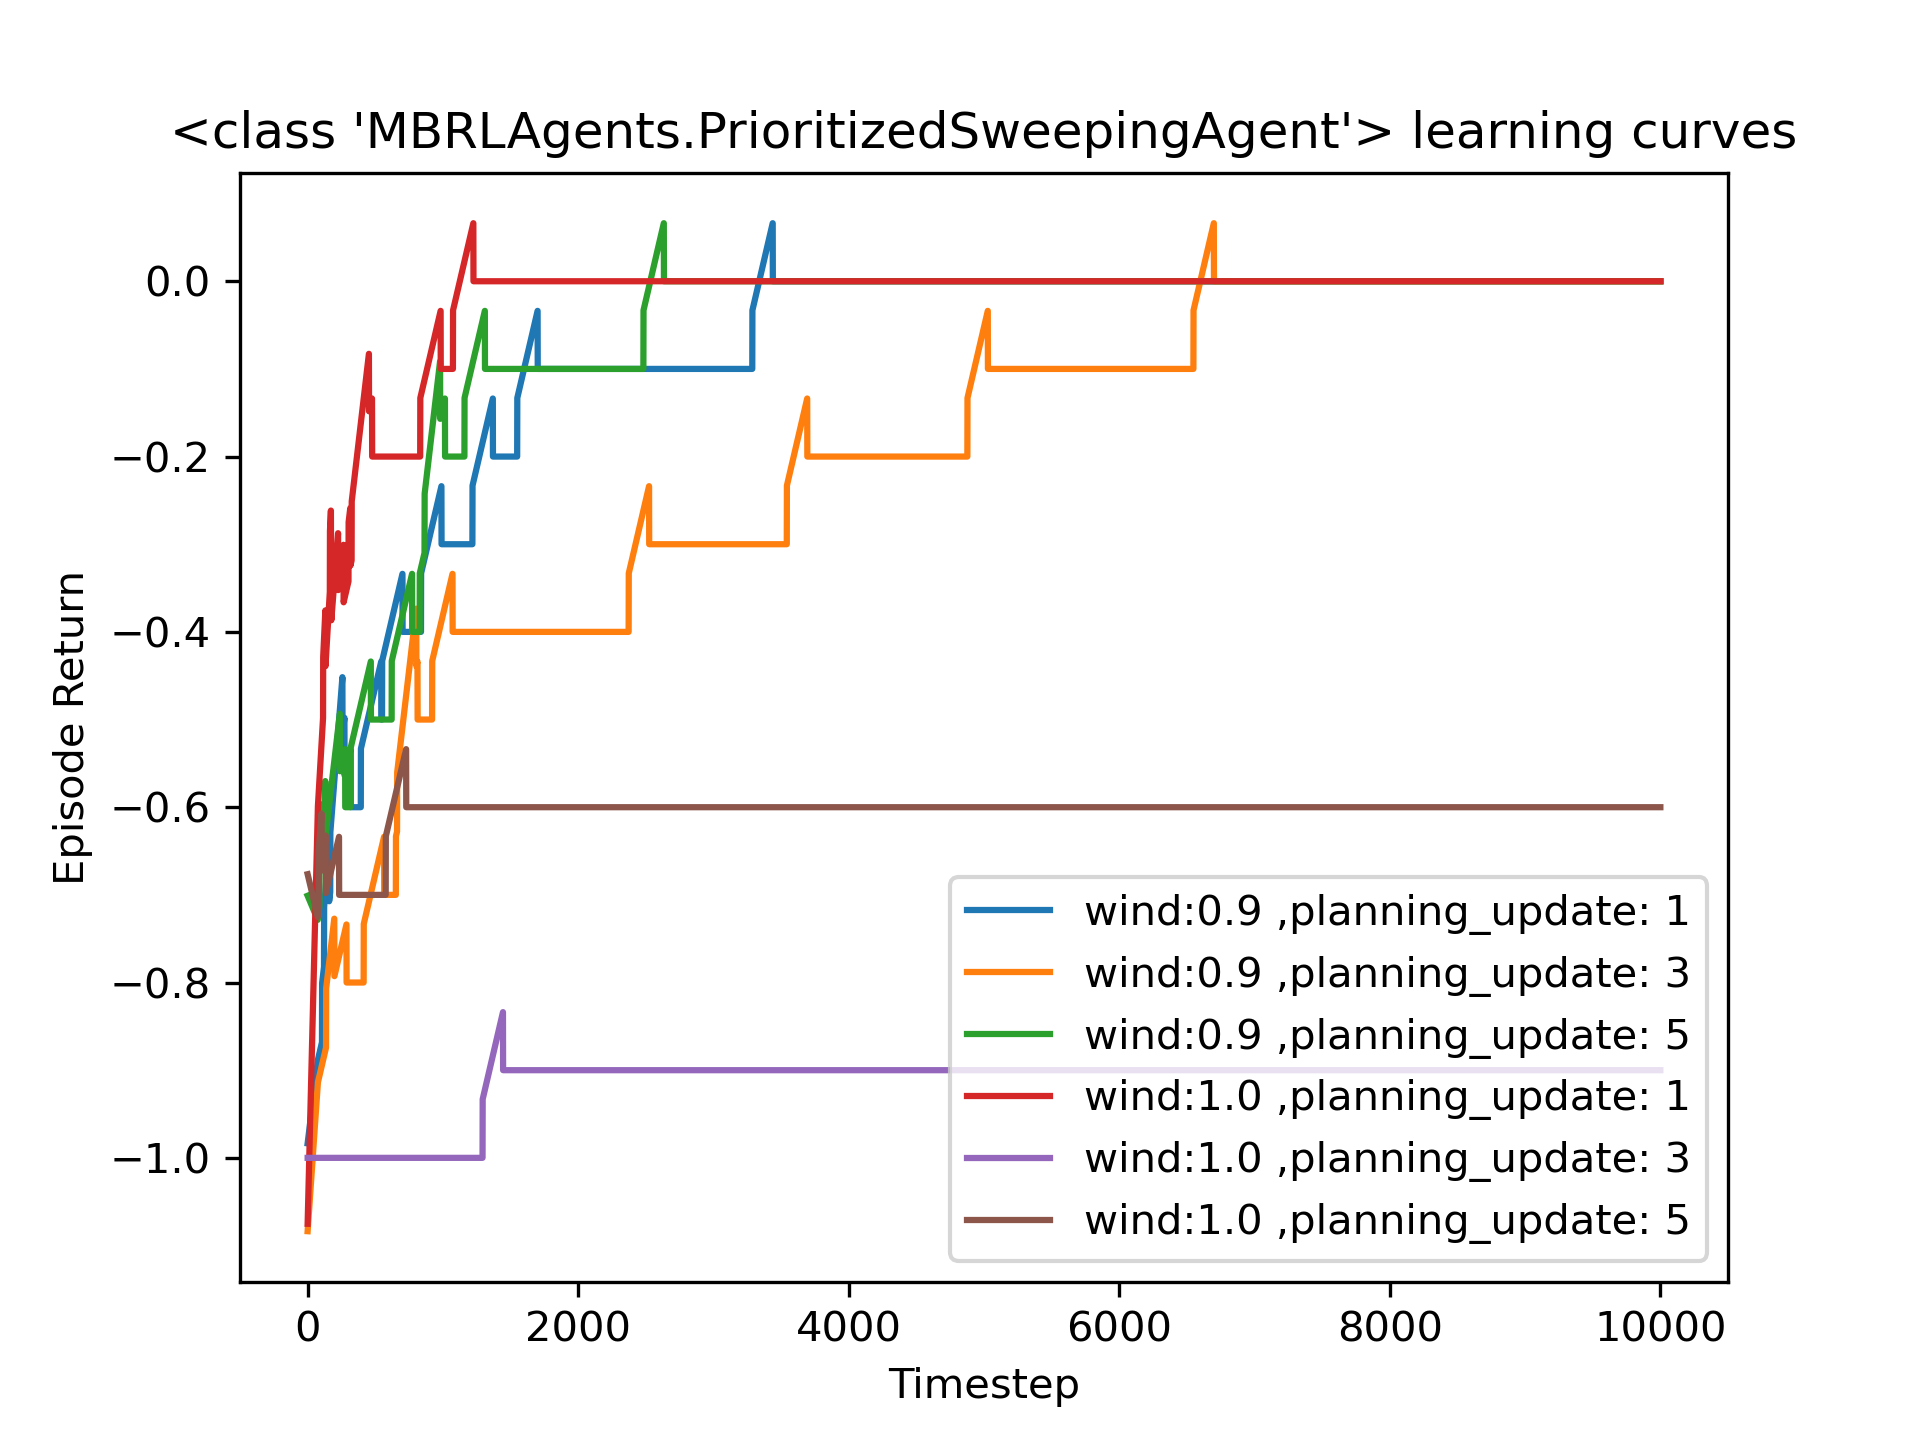
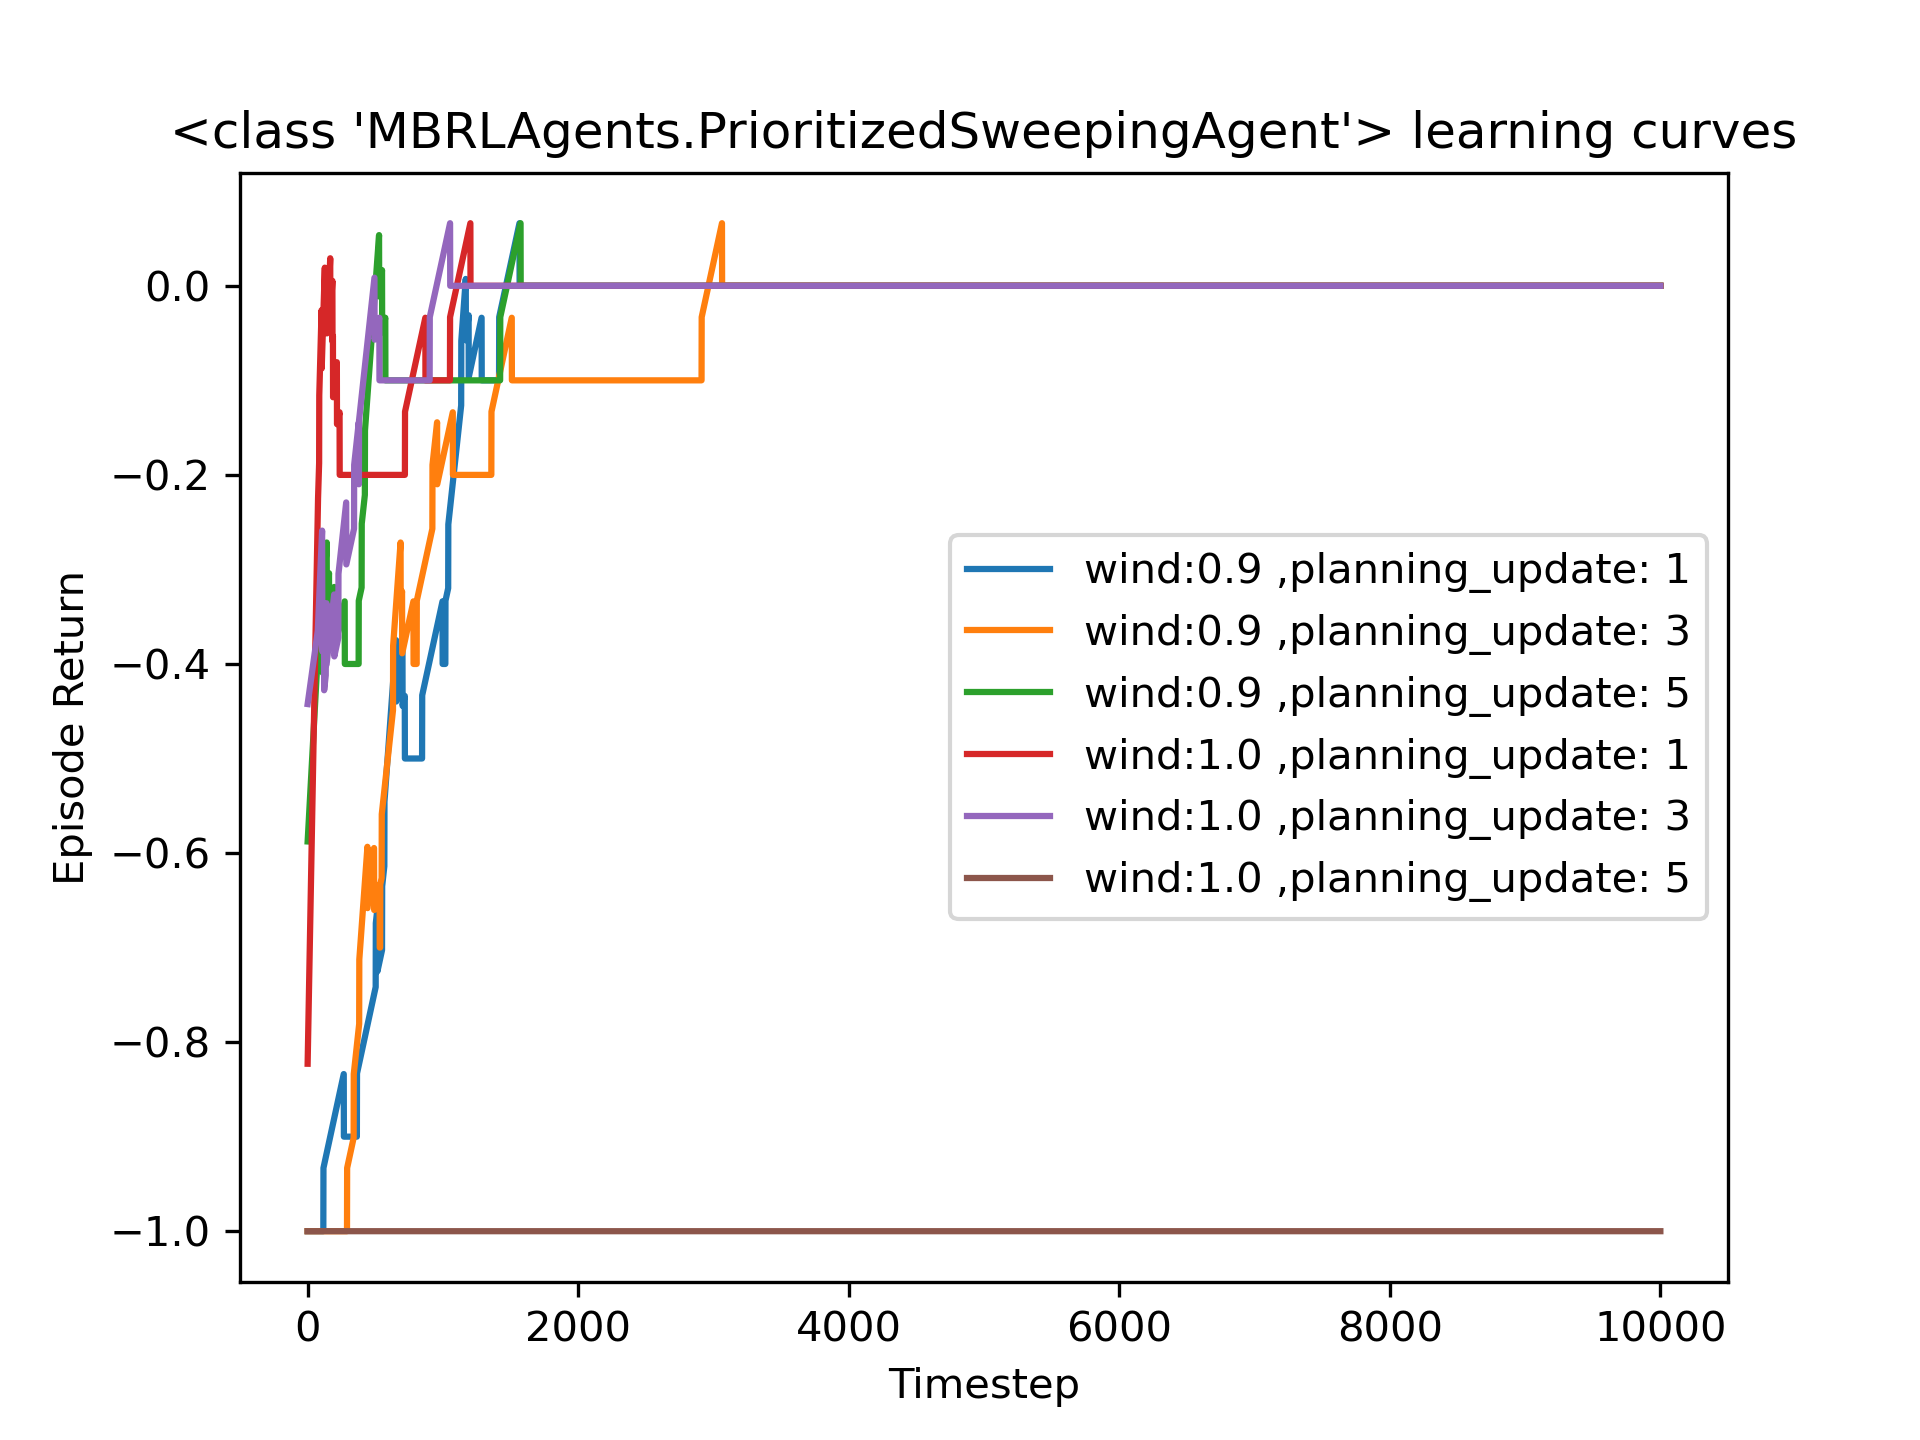
final final commit

diff --git a/MBRLAgents.py b/MBRLAgents.py
@@ -18,13 +18,14 @@ class DynaAgent:
         self.learning_rate = learning_rate
         self.gamma = gamma
         self.Q_sa = np.zeros((n_states,n_actions))
+        #initialize transition counts and reward sums
         self.means_Q_sa = np.zeros((n_states, n_actions))
         self.transition_counts = np.zeros((n_states,n_actions,n_states))
         self.reward_sums = np.zeros((n_states,n_actions, n_states))
-        # TO DO: Initialize count tables, and reward sum tables. 
+        
         
     def select_action(self, s, epsilon):
-        # TO DO: Change this to e-greedy action selection
+        #e-greedy action selection
         if np.random.rand() < epsilon:
             action = np.random.randint(0, self.n_actions)
         else:
@@ -33,23 +34,31 @@ class DynaAgent:
         return action
         
     def update(self,s,a,r,done,s_next,n_planning_updates):
-        # TO DO: Add Dyna update
+        #update transition counts
         self.transition_counts[s,a,s_next] += 1
+        #update reward sums
         self.reward_sums[s,a,s_next] += r
+        #estimate reward
         estimate_r = self.reward_sums[s,a,s_next] / self.transition_counts[s,a,s_next]
+        #update q table
         self.Q_sa[s,a] += self.learning_rate * (r + self.gamma * np.max(self.Q_sa[s_next]) - self.Q_sa[s,a])
         
+        
         for k in range(n_planning_updates):
+            #find random previously observed state and action
             state_found = False
             while not state_found:
                 s = np.random.choice(np.arange(self.n_states))
                 a = np.random.choice(np.arange(self.n_actions))
                 if np.sum(self.transition_counts[s,a]) > 0:
                     state_found = True
-
+                    
+            #estimate transition probability
             estimate_probability = self.transition_counts[s,a] / np.sum(self.transition_counts[s,a])
             
-            s_next = np.random.choice(np.where(self.transition_counts[s,a] > 0)[0], p=estimate_probability)
+            #update q table with planning
+            s_next = np.random.choice(np.where(self.transition_counts[s,a] > 0)[0])
+            estimate_r = self.reward_sums[s,a,s_next] / self.transition_counts[s,a,s_next]
             self.Q_sa[s,a] += self.learning_rate * (estimate_r + self.gamma * np.max(self.Q_sa[s_next]) - self.Q_sa[s,a])
 
             
@@ -81,13 +90,13 @@ class PrioritizedSweepingAgent:
         self.queue = PriorityQueue()
         
         self.Q_sa = np.zeros((n_states,n_actions))
-        # TO DO: Initialize count tables, reward sum tables, priority queue
+        #initialize transition counts and reward sums
         self.means_Q_sa = np.zeros((n_states, n_actions))
         self.transition_counts = np.zeros((n_states,n_actions,n_states))
         self.reward_sums = np.zeros((n_states,n_actions, n_states))
         
     def select_action(self, s, epsilon):
-        # TO DO: Change this to e-greedy action selection
+        #e-greedy action selection
         
         if np.random.rand() < epsilon:
             action = np.random.randint(0, self.n_actions)
@@ -106,26 +115,40 @@ class PrioritizedSweepingAgent:
         # self.queue.put((-p,(s,a))) 
         # Retrieve the top (s,a) from the queue
         # _,(s,a) = self.queue.get() # get the top (s,a) for the queue
+        
+        #update transition counts
         self.transition_counts[s,a,s_next] += 1
+        #update reward sums
         self.reward_sums[s,a,s_next] += r
         
+        #estimate transition probability
         estimate_probability = self.transition_counts[s,a] / np.sum(self.transition_counts[s,a])
         s_next = np.random.choice(np.where(self.transition_counts[s,a] > 0)[0])
+        #estimate reward
         estimate_r = self.reward_sums[s,a,s_next] / np.sum(self.transition_counts[s,a])
         
-        p = np.abs(r + self.gamma * np.max(self.Q_sa[s_next]) - self.Q_sa[s,a])
+        #compute priority p
+        p = np.abs(estimate_r + self.gamma * np.max(self.Q_sa[s_next]) - self.Q_sa[s,a])
+    
+        #put (s,a) on the queue with priority p
         if p > self.priority_cutoff:
             self.queue.put((-p,(s,a)))
         for k in range(n_planning_updates):
             if self.queue.empty():
                 break
+            #get top (s,a) from the queue
             _,(s,a) = self.queue.get()
+            #estimate transition probability
             estimate_probability = self.transition_counts[s,a] / np.sum(self.transition_counts[s,a])
+            #update q table 
             s_next = np.random.choice(np.where(self.transition_counts[s,a] > 0)[0])
             self.Q_sa[s,a] += self.learning_rate * (estimate_r + self.gamma * np.max(self.Q_sa[s_next]) - self.Q_sa[s,a])
             
+            #loop over all state action pairs that can lead to state s
             for s_prime in np.where(self.transition_counts[s,a] > 0)[0]:
+                #get reward from model
                 r = self.reward_sums[s,a,s_prime] / self.transition_counts[s,a,s_prime]
+                #compute priority p
                 p = np.abs(estimate_r + self.gamma * np.max(self.Q_sa[s_prime]) - self.Q_sa[s,a])
                 if p > self.priority_cutoff:
                     self.queue.put((-p,(s,a)))

diff --git a/MBRLExperiment.py b/MBRLExperiment.py
@@ -19,24 +19,30 @@ def experiment():
     learning_rate = 0.2
     epsilon=0.1
     
+    
     wind_proportions=[0.9,1.0]
     n_planning_updates = [1,3,5] 
     agents = DynaAgent, PrioritizedSweepingAgent
     
+    #make plot for eacht agent
     for agent in agents:
         plot = LearningCurvePlot(title=str(agent) + ' learning curves')
+        #loop over wind_proportions and n_planning_updates
         for wind_proportion in wind_proportions:
             for n_planning_update in n_planning_updates:
                 print('wind:' + str(wind_proportion) + ', planning_update: ' + str(n_planning_update))
+                #run repetitions
                 mean_rewards = run_repetitions(n_timesteps, n_repetitions, gamma, learning_rate, epsilon, wind_proportion, n_planning_update, eval_interval, agent)
                 smoothed_rewards = smooth(mean_rewards, window=151)
+                #add the mean rewards to plot
                 plot.add_curve(np.arange(n_timesteps), smoothed_rewards, label='wind:' + str(wind_proportion)+' ,planning_update: ' + str(n_planning_update))
         if agent == DynaAgent:
             plot.save('Dyna_learning_curves.png')
         else:
             plot.save('PrioritizedSweeping_learning_curves.png')
     
-    """best_parameters = [[1, 1],
+    #make comparison plot
+    best_parameters = [[1, 1],
                        [1, 3]]
     plot = ComparisonPlot(title='comparisonplot')
     for agent in range(len(agents)):
@@ -44,7 +50,7 @@ def experiment():
             mean_rewards = run_repetitions(n_timesteps, n_repetitions, gamma, learning_rate, epsilon, wind_proportions[wind_proportion], best_parameters[agent][wind_proportion], eval_interval, agents[agent])
             smoothed_rewards = smooth(mean_rewards, window=151)
             plot.add_curve(np.arange(n_timesteps), smoothed_rewards, label='wind:' + str(wind_proportions[wind_proportion]) + ', planning_update: ' + str(best_parameters[agent][wind_proportion]))
-    plot.save('comparisonplot.png')   """     
+    plot.save('comparisonplot.png')    
             
         
     # IMPLEMENT YOUR EXPERIMENT HERE
@@ -61,15 +67,19 @@ def run_repetitions(n_timesteps, n_repetitions, gamma, learning_rate, epsilon, w
         #print(repetition)
         s = env.reset()
         for timestep in range(n_timesteps):
+            #evaluate every 250 timesteps
             if timestep % eval_interval == 0:
                 agent.evaluate(env)
+            #select action and update 
             a = agent.select_action(s, epsilon)
             s_next, r, done = env.step(a)
             agent.update(s, a, r, done, s_next, n_planning_updates)
+            #add reward to mean_rewards
             mean_rewards[timestep] += r
             if done:
                 break
             s = s_next
+    #calculate mean rewards
     mean_rewards /= n_repetitions
     return mean_rewards
     
